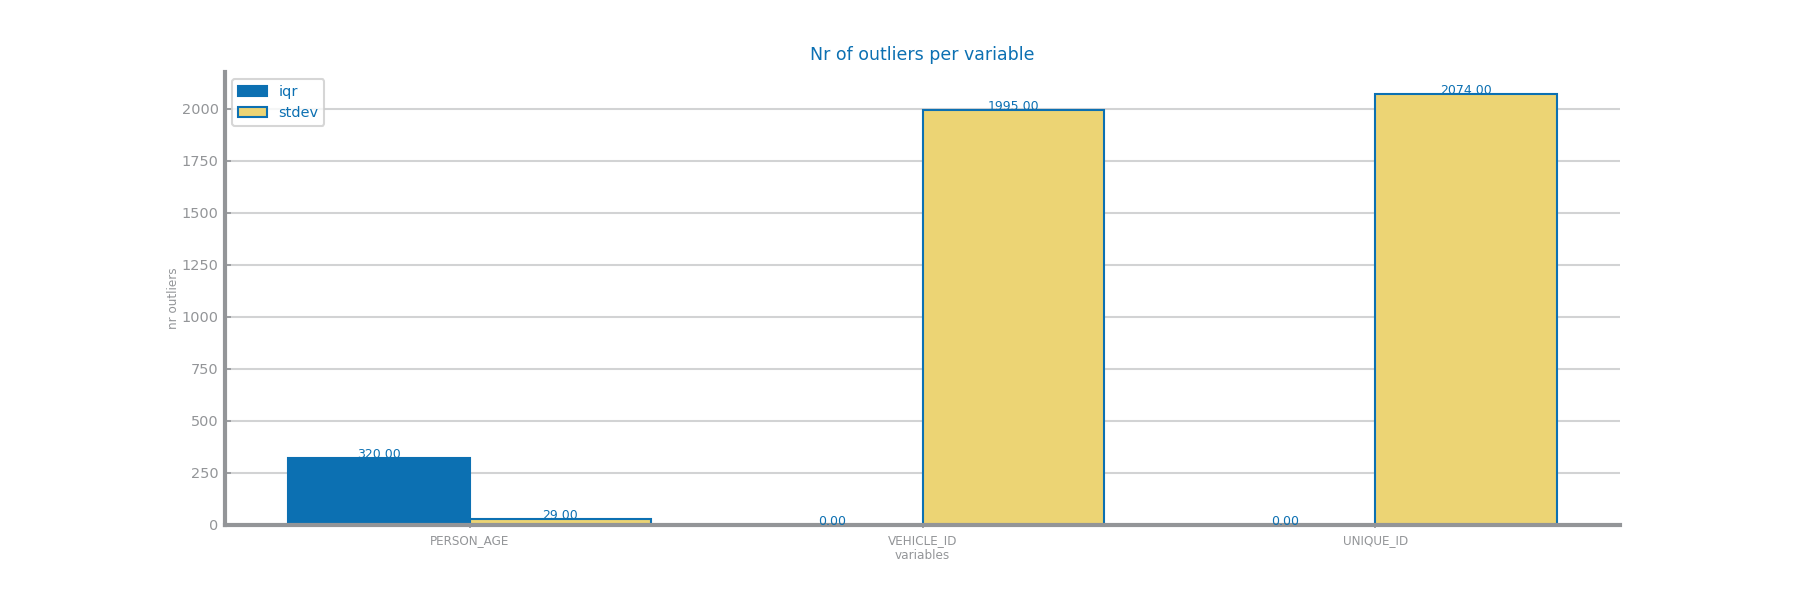
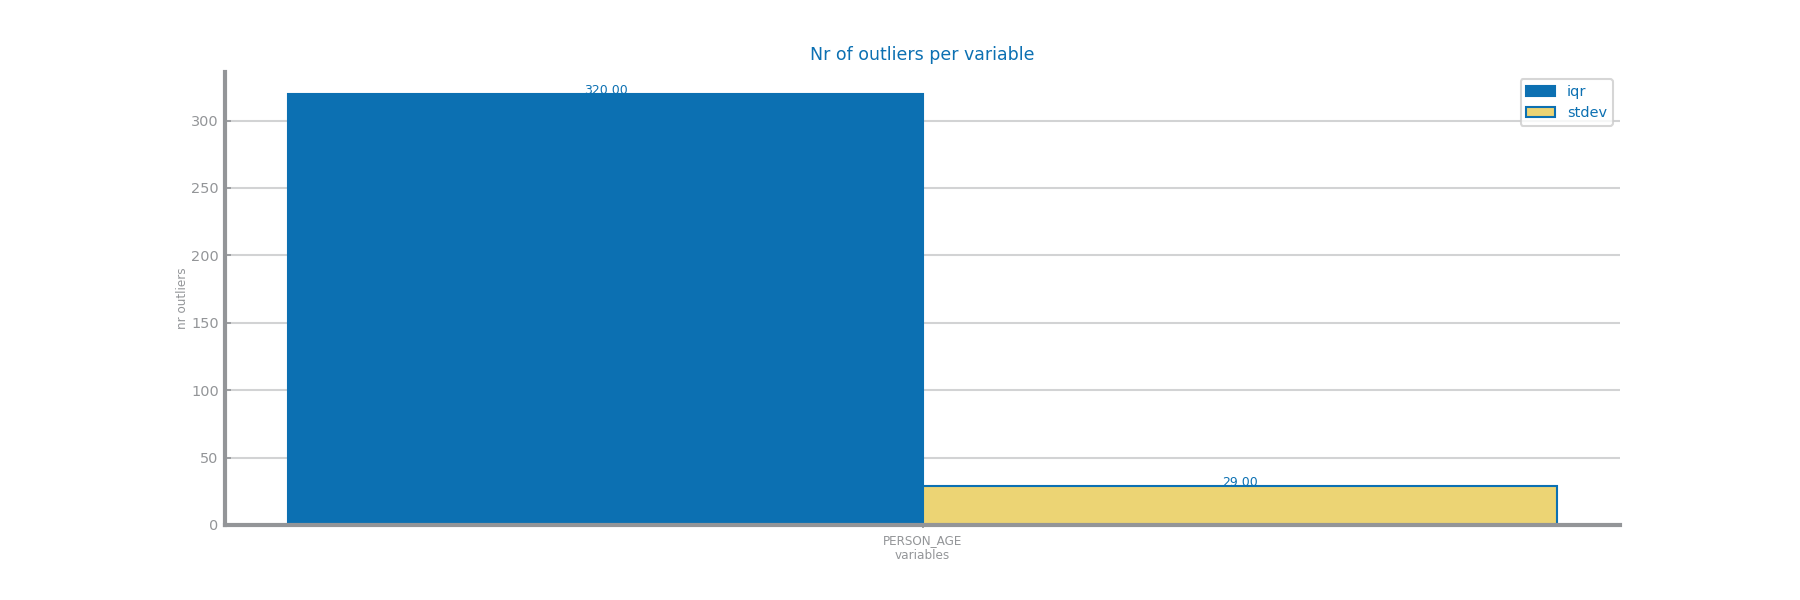
Added distributions fit and new nyc charts.

diff --git a/data_distribution.py b/data_distribution.py
@@ -3,17 +3,18 @@
 import numpy as np
 import pandas as pd
 import matplotlib.pyplot as plt
-from seaborn import distplot
+from seaborn import displot
+from scipy.stats import norm, expon, lognorm
 from pandas.plotting import register_matplotlib_converters
-from ds_charts import get_variable_types, choose_grid, multiple_bar_chart, bar_chart, HEIGHT
+from ds_charts import get_variable_types, choose_grid, multiple_line_chart, multiple_bar_chart, bar_chart, HEIGHT
 
 AIR_QUALITY_FILE = "data/air_quality_tabular.csv"
 COLLISIONS_FILE = "data/NYC_collisions_tabular.csv"
 
 register_matplotlib_converters()
 
-air_data = pd.read_csv(AIR_QUALITY_FILE, index_col="FID", na_values="", parse_dates=True, infer_datetime_format=True)
-collisions_data = pd.read_csv(COLLISIONS_FILE, index_col="COLLISION_ID", na_values="", parse_dates=True, infer_datetime_format=True)
+air_data = pd.read_csv(AIR_QUALITY_FILE, index_col="FID", parse_dates=True, infer_datetime_format=True)
+collisions_data = pd.read_csv(COLLISIONS_FILE, index_col="COLLISION_ID", parse_dates=True, infer_datetime_format=True).drop(["UNIQUE_ID", "VEHICLE_ID"], axis=1)
 
 """
 ---------- FIVE-NUMBER SUMMARY ----------
@@ -25,14 +26,13 @@ summary5_air
 #%%
 summary5_colls = collisions_data.describe()
 summary5_colls
-
+# %%
 """
 ---------- BOXPLOTS ----------
 These have the intent of helping us visualize what the
 five-number summaries mean.
 """
 
-# %%
 def boxplot(data, path):
     numeric_vars = get_variable_types(data)['Numeric']
     if [] == numeric_vars:
@@ -42,8 +42,12 @@ def boxplot(data, path):
     i, j = 0, 0
     for n in range(len(numeric_vars)):
         if rows == 1:
-            axs[j].set_title('Boxplot for %s'%numeric_vars[n])
-            axs[j].boxplot(data[numeric_vars[n]].dropna().values)
+            if cols != 1:
+                axs[j].set_title('Boxplot for %s'%numeric_vars[n])
+                axs[j].boxplot(data[numeric_vars[n]].dropna().values)
+            else:
+                axs.set_title('Boxplot for %s'%numeric_vars[n])
+                axs.boxplot(data[numeric_vars[n]].dropna().values)
         else:
             axs[i, j].set_title('Boxplot for %s'%numeric_vars[n])
             axs[i, j].boxplot(data[numeric_vars[n]].dropna().values)
@@ -54,15 +58,12 @@ def boxplot(data, path):
 boxplot(air_data, "images/lab1/distribution/air_quality_boxplot.png")
 # %%
 boxplot(collisions_data, "images/lab1/distribution/nyc_crashes_boxplot.png")
-
-#TODO: retirar variaveis parvos tipo os IDs
-
+# %%
 """
 ---------- OUTLIERS ----------
 Here, we want to compare between the outliers caught by the
 IQR outliers and the n-std outliers.
 """
-# %%
 def outliers(data, path):
     NR_STDEV: int = 2
 
@@ -90,12 +91,10 @@ def outliers(data, path):
     plt.savefig(path)
     plt.show()
 
-#TODO: retirar variaveis parvas tipo os IDs
-
-# %%
-outliers(collisions_data, "images/lab1/distribution/nyc_crashes_outliers.png")
 #%%
 outliers(air_data, "images/lab1/distribution/air_quality_outliers.png")
+# %%
+outliers(collisions_data, "images/lab1/distribution/nyc_crashes_outliers.png")
 
 # %%
 """
@@ -104,8 +103,6 @@ The previous diagrams don't give us a sense of the
 distribution of all of the individual variables. This is
 why we will use histograms next.
 """
-
-#TODO: retirar variaveis parvas tipo os IDs
 #TODO: Meter escala boa para a idade das pessoas.
 
 def histogram(data, path):
@@ -119,10 +116,16 @@ def histogram(data, path):
 
     for n in range(len(numeric_vars)):
         if rows == 1:
-            axs[j].set_title('Histogram for %s'%numeric_vars[n])
-            axs[j].set_xlabel(numeric_vars[n])
-            axs[j].set_ylabel("nr records")
-            axs[j].hist(data[numeric_vars[n]].dropna().values, 'auto')
+            if cols != 1:
+                axs[j].set_title('Histogram for %s'%numeric_vars[n])
+                axs[j].set_xlabel(numeric_vars[n])
+                axs[j].set_ylabel("nr records")
+                axs[j].hist(data[numeric_vars[n]].dropna().values, 'auto')
+            else:
+                axs.set_title('Histogram for %s'%numeric_vars[n])
+                axs.set_xlabel(numeric_vars[n])
+                axs.set_ylabel("nr records")
+                axs.hist(data[numeric_vars[n]].dropna().values, 'auto')
         else:
             axs[i, j].set_title('Histogram for %s'%numeric_vars[n])
             axs[i, j].set_xlabel(numeric_vars[n])
@@ -147,11 +150,15 @@ def histogram_with_trend(data, path):
     i, j = 0, 0
     for n in range(len(numeric_vars)):
         if rows == 1:
-            axs[j].set_title('Histogram with trend for %s'%numeric_vars[n])
-            distplot(data[numeric_vars[n]].dropna().values, norm_hist=True, ax=axs[j], axlabel=numeric_vars[n])
+            if cols != 1:
+                axs[j].set_title('Histogram with trend for %s'%numeric_vars[n])
+                displot(data[numeric_vars[n]].dropna().values, norm_hist=True, ax=axs[j], axlabel=numeric_vars[n])
+            else:
+                axs.set_title('Histogram with trend for %s'%numeric_vars[n])
+                displot(data[numeric_vars[n]].dropna().values, norm_hist=True, ax=axs, axlabel=numeric_vars[n])
         else:
             axs[i, j].set_title('Histogram with trend for %s'%numeric_vars[n])
-            distplot(data[numeric_vars[n]].dropna().values, norm_hist=True, ax=axs[i, j], axlabel=numeric_vars[n])
+            displot(data[numeric_vars[n]].dropna().values, norm_hist=True, ax=axs[i, j], axlabel=numeric_vars[n])
         i, j = (i + 1, 0) if (n+1) % cols == 0 else (i, j + 1)
     plt.savefig(path)
     plt.show()
@@ -161,7 +168,51 @@ histogram_with_trend(air_data, "images/lab1/distribution/air_quality_histograms_
 # %%
 histogram_with_trend(collisions_data, "images/lab1/distribution/nyc_crashes_histograms_trend.png")
 #%%
-#TODO: Criar histogramas com o fit de varias distribuicoes diferentes.
+def compute_known_distributions(x_values: list) -> dict:
+    #!TODO: experimentar mais distribuicoes!!!!!!!!
+    distributions = dict()
+    # Gaussian
+    mean, sigma = norm.fit(x_values)
+    distributions['Normal(%.1f,%.2f)'%(mean,sigma)] = norm.pdf(x_values, mean, sigma)
+    # Exponential
+    loc, scale = expon.fit(x_values)
+    distributions['Exp(%.2f)'%(1/scale)] = expon.pdf(x_values, loc, scale)
+    # LogNorm
+    sigma, loc, scale = lognorm.fit(x_values)
+    distributions['LogNor(%.1f,%.2f)'%(np.log(scale),sigma)] = lognorm.pdf(x_values, sigma, loc, scale)
+    return distributions
+
+def histogram_with_distributions(ax: plt.Axes, series: pd.Series, var: str):
+    values = series.sort_values().values
+    ax.hist(values, 20, density=True)
+    distributions = compute_known_distributions(values)
+    multiple_line_chart(values, distributions, ax=ax, title='Best fit for %s'%var, xlabel=var, ylabel='')
+
+def fit_distributions(data, path):
+
+    numeric_vars = get_variable_types(data)['Numeric']
+    if [] == numeric_vars:
+        raise ValueError('There are no numeric variables.')
+
+    rows, cols = choose_grid(len(numeric_vars))
+    fig, axs = plt.subplots(rows, cols, figsize=(cols*HEIGHT, rows*HEIGHT), squeeze=False)
+    i, j = 0, 0
+    for n in range(len(numeric_vars)):
+        if rows == 1:
+            if cols != 1:
+                histogram_with_distributions(axs[j], data[numeric_vars[n]].dropna(), numeric_vars[n])
+            else:
+                histogram_with_distributions(axs, data[numeric_vars[n]].dropna(), numeric_vars[n])
+        else:
+            histogram_with_distributions(axs[i, j], data[numeric_vars[n]].dropna(), numeric_vars[n])
+        i, j = (i + 1, 0) if (n+1) % cols == 0 else (i, j + 1)
+    plt.savefig(path)
+    plt.show()
+
+# %%
+fit_distributions(air_data, "images/lab1/distribution/air_quality_histograms_fits.png")
+# %%
+fit_distributions(collisions_data, "images/lab1/distribution/nyc_crashes_histograms_fits.png")
 #%%
 """
 ---------- SYMBOLIC VARIABLES ----------
@@ -187,6 +238,3 @@ sym_bars(collisions_data.drop(["PERSON_ID"], axis=1), "images/lab1/distribution/
 #%%
 #! Tive que apagar uma entrada com um "s" no GbCity para essa coluna nao contar como symbolic || Scratch that, a coluna fica sempre como object..?
 sym_bars(air_data.drop("GbCity", axis=1), "images/lab1/distribution/air_quality_syms.png")
-# %%
-air_data.dtypes
-# %%
